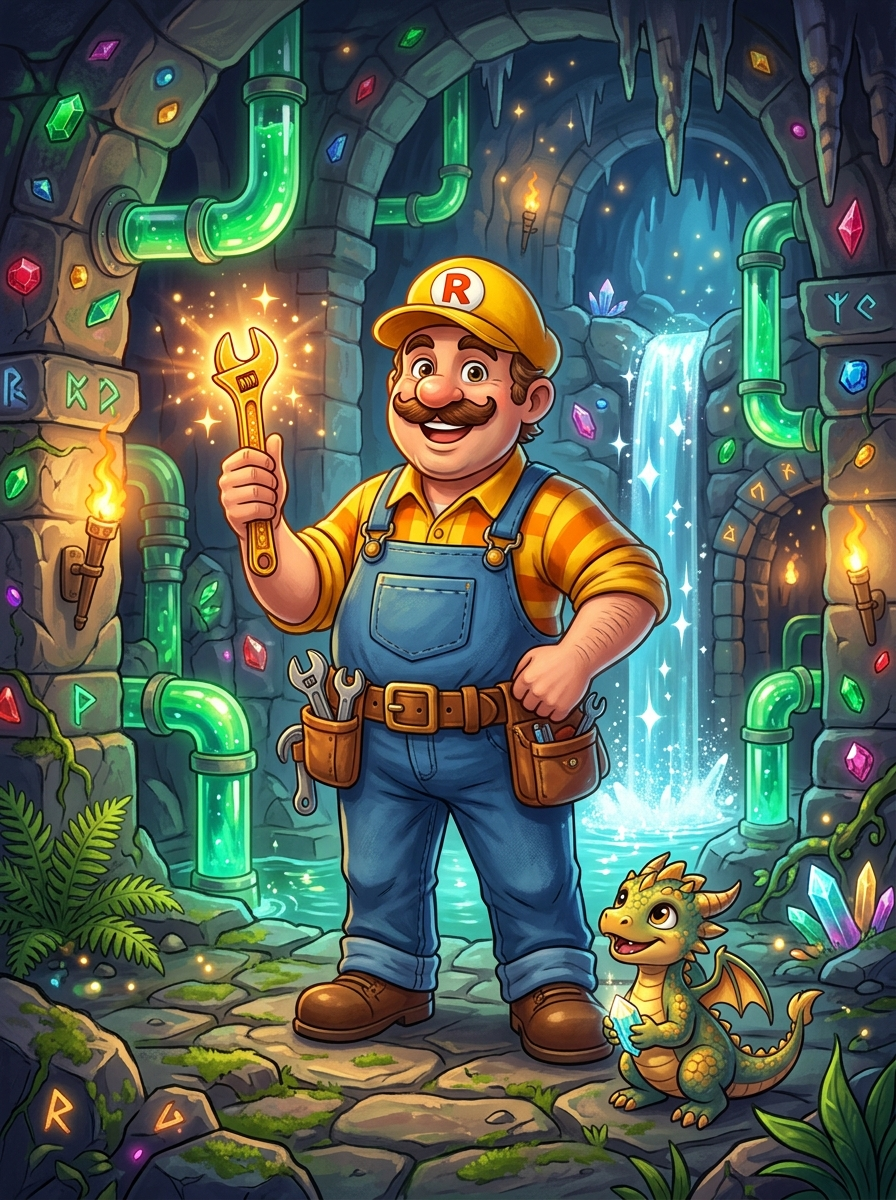
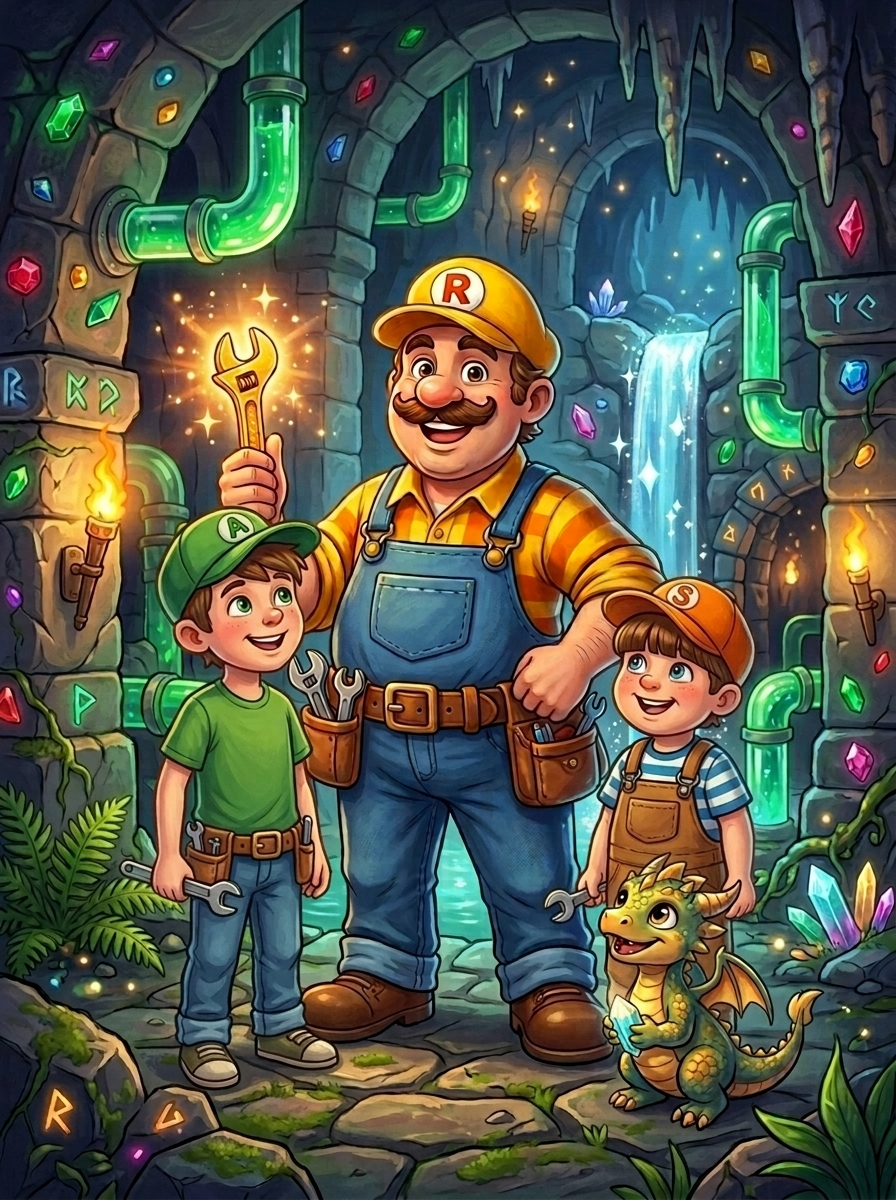
feat: v2.3.0 — Riccardo, Ale & Seby: The Dungeon Plumbers title screen 🚰👦🧒🐉💎

diff --git a/lib/version.dart b/lib/version.dart
@@ -1,3 +1,3 @@
 /// App version — update this on every release.
 /// Also update: VERSION, CHANGELOG.md, pubspec.yaml
-const String appVersion = '2.2.1';
+const String appVersion = '2.3.0';

diff --git a/CHANGELOG.md b/CHANGELOG.md
@@ -2,6 +2,15 @@
 
 All notable changes to FlowConnect (Tubature) are documented here.
 
+## 2.3.0 — 2026-08-23
+
+### Riccardo, Ale & Seby: The Dungeon Plumbers! 🚰👦🧒🐉💎
+- **Family Character Consistency** — starring **Riccardo** (yellow **"R"** cap), **Alessandro** (green **"A"** cap), and **Sebastian** (orange **"S"** cap with little wrench) along with their cute baby emerald dragon companion
+- **Dual-Orientation Title Screens** — pixel-perfect portrait (3:4) and widescreen (16:9) background artworks
+- **Pixel 10 & Mobile-First UI** — top title header + bottom-docked glassmorphic control sheet leaving character art completely visible
+- **Custom Riccardo App Icons & Favicon** — cropped 512px, 192px app icons and favicon
+- **Live Play Badge** — added permalink directly at the top of README.md
+
 ## 2.2.1 — 2026-08-23
 
 ### Pixel 10 & Mobile Portrait Layout Overhaul 📱✨
